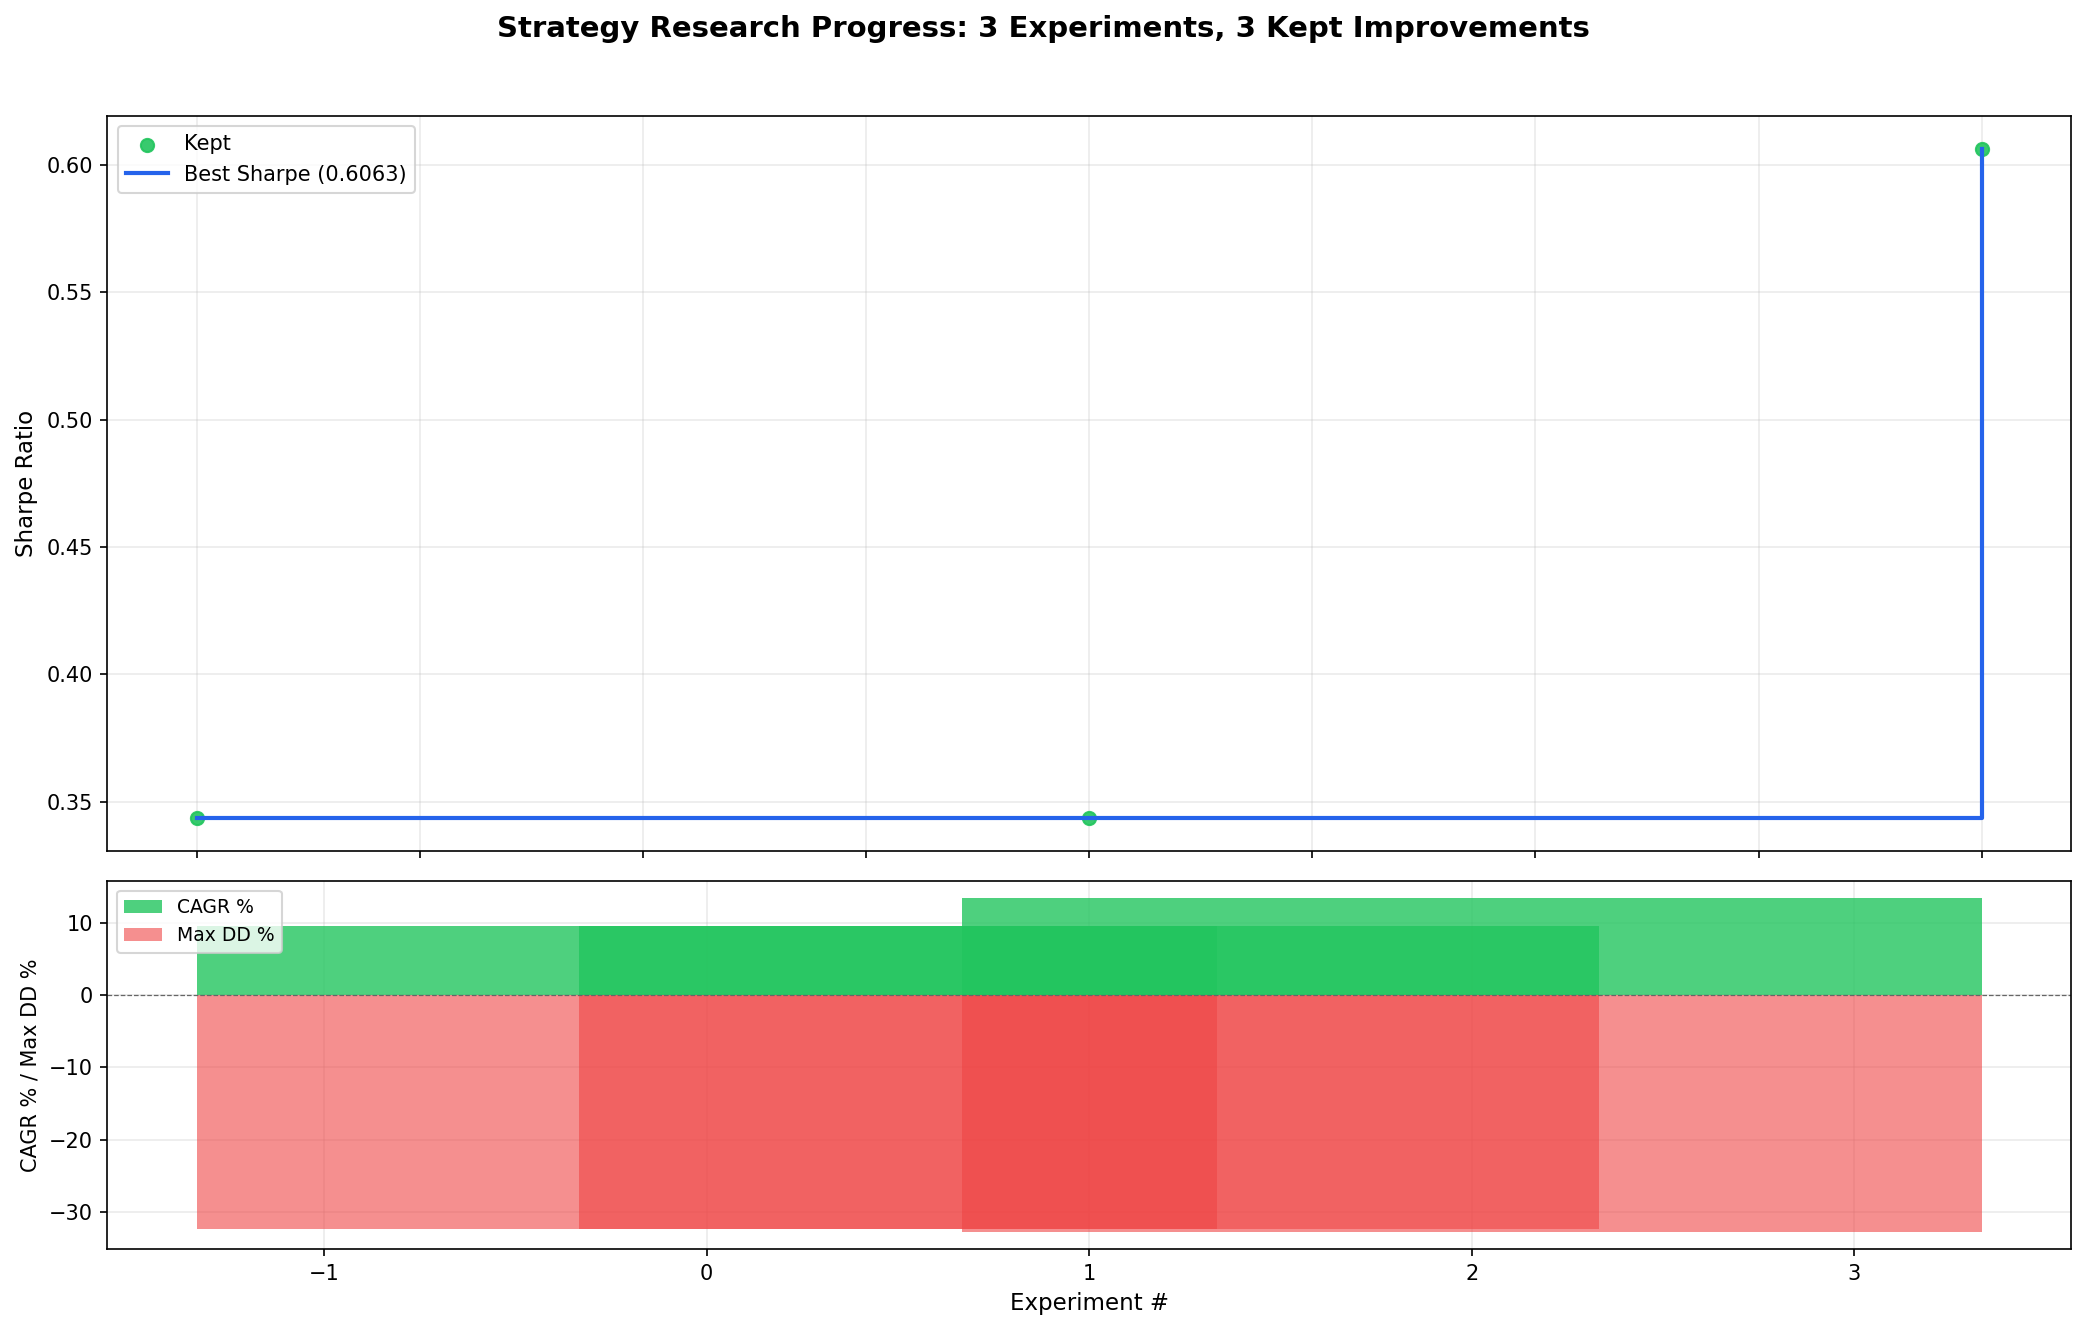
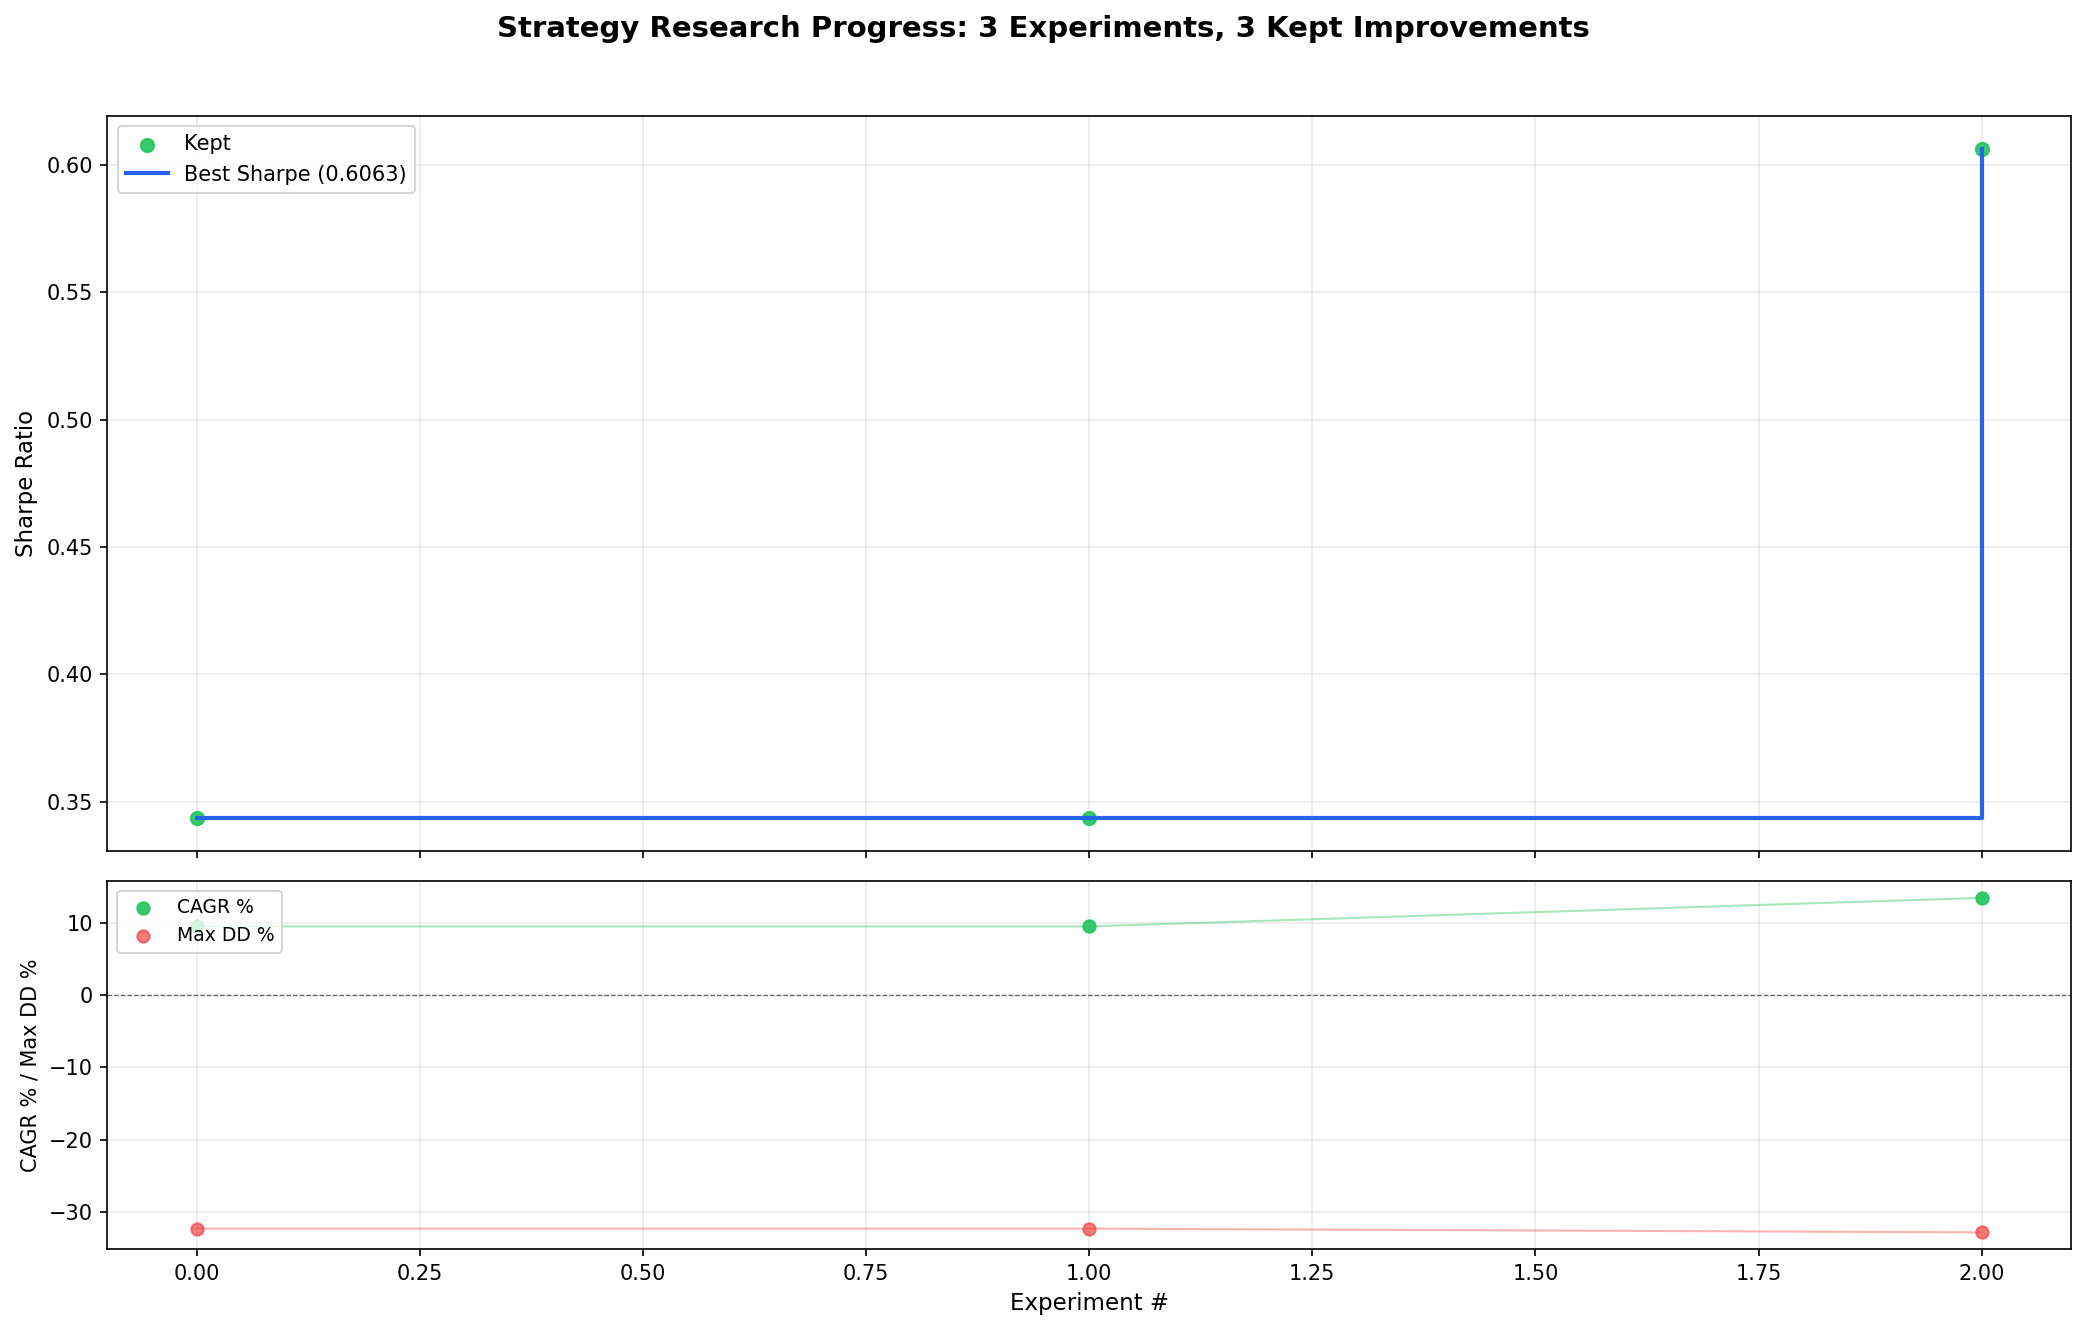
Fix progress chart: scatter points instead of boxy bars

Changed region(s): [[0.0624, 0.6782, 0.9664, 0.9556]]

diff --git a/plot_backtest.py b/plot_backtest.py
@@ -230,19 +230,24 @@ def plot_progress(results_file: str | None = None, save: bool = True):
     ax1.grid(True, alpha=0.25)
     ax1.tick_params(labelbottom=False)
 
-    # ── Bottom panel: CAGR + Max DD bars ─────────────────────────────────
+    # ── Bottom panel: CAGR + Max DD scatter ──────────────────────────────
     ax2 = axes[1]
 
-    if len(kept) > 0:
-        bar_width = max(0.4, 8 / max(n_kept, 1))
-        ax2.bar(kept["exp_num"], kept["cagr_pct"],
-                color="#22c55e", alpha=0.8, width=bar_width, label="CAGR %", zorder=2)
-        ax2.bar(kept["exp_num"], kept["max_dd_pct"],
-                color="#ef4444", alpha=0.6, width=bar_width, label="Max DD %", zorder=2)
     if len(discarded) > 0:
-        bar_width = max(0.3, 8 / max(n_total, 1))
-        ax2.bar(discarded["exp_num"], discarded["cagr_pct"],
-                color="#9ca3af", alpha=0.3, width=bar_width, zorder=1)
+        ax2.scatter(discarded["exp_num"], discarded["cagr_pct"],
+                    color="#9ca3af", alpha=0.3, s=18, zorder=1)
+        ax2.scatter(discarded["exp_num"], discarded["max_dd_pct"],
+                    color="#9ca3af", alpha=0.3, s=18, zorder=1)
+    if len(kept) > 0:
+        ax2.scatter(kept["exp_num"], kept["cagr_pct"],
+                    color="#22c55e", alpha=0.9, s=35, zorder=3, label="CAGR %")
+        ax2.scatter(kept["exp_num"], kept["max_dd_pct"],
+                    color="#ef4444", alpha=0.7, s=35, zorder=3, label="Max DD %")
+        # Connect kept points with lines
+        ax2.plot(kept["exp_num"], kept["cagr_pct"],
+                 color="#22c55e", alpha=0.4, linewidth=1, zorder=2)
+        ax2.plot(kept["exp_num"], kept["max_dd_pct"],
+                 color="#ef4444", alpha=0.4, linewidth=1, zorder=2)
 
     ax2.axhline(0, color="#666", linewidth=0.6, linestyle="--")
     ax2.set_ylabel("CAGR % / Max DD %", fontsize=10)
